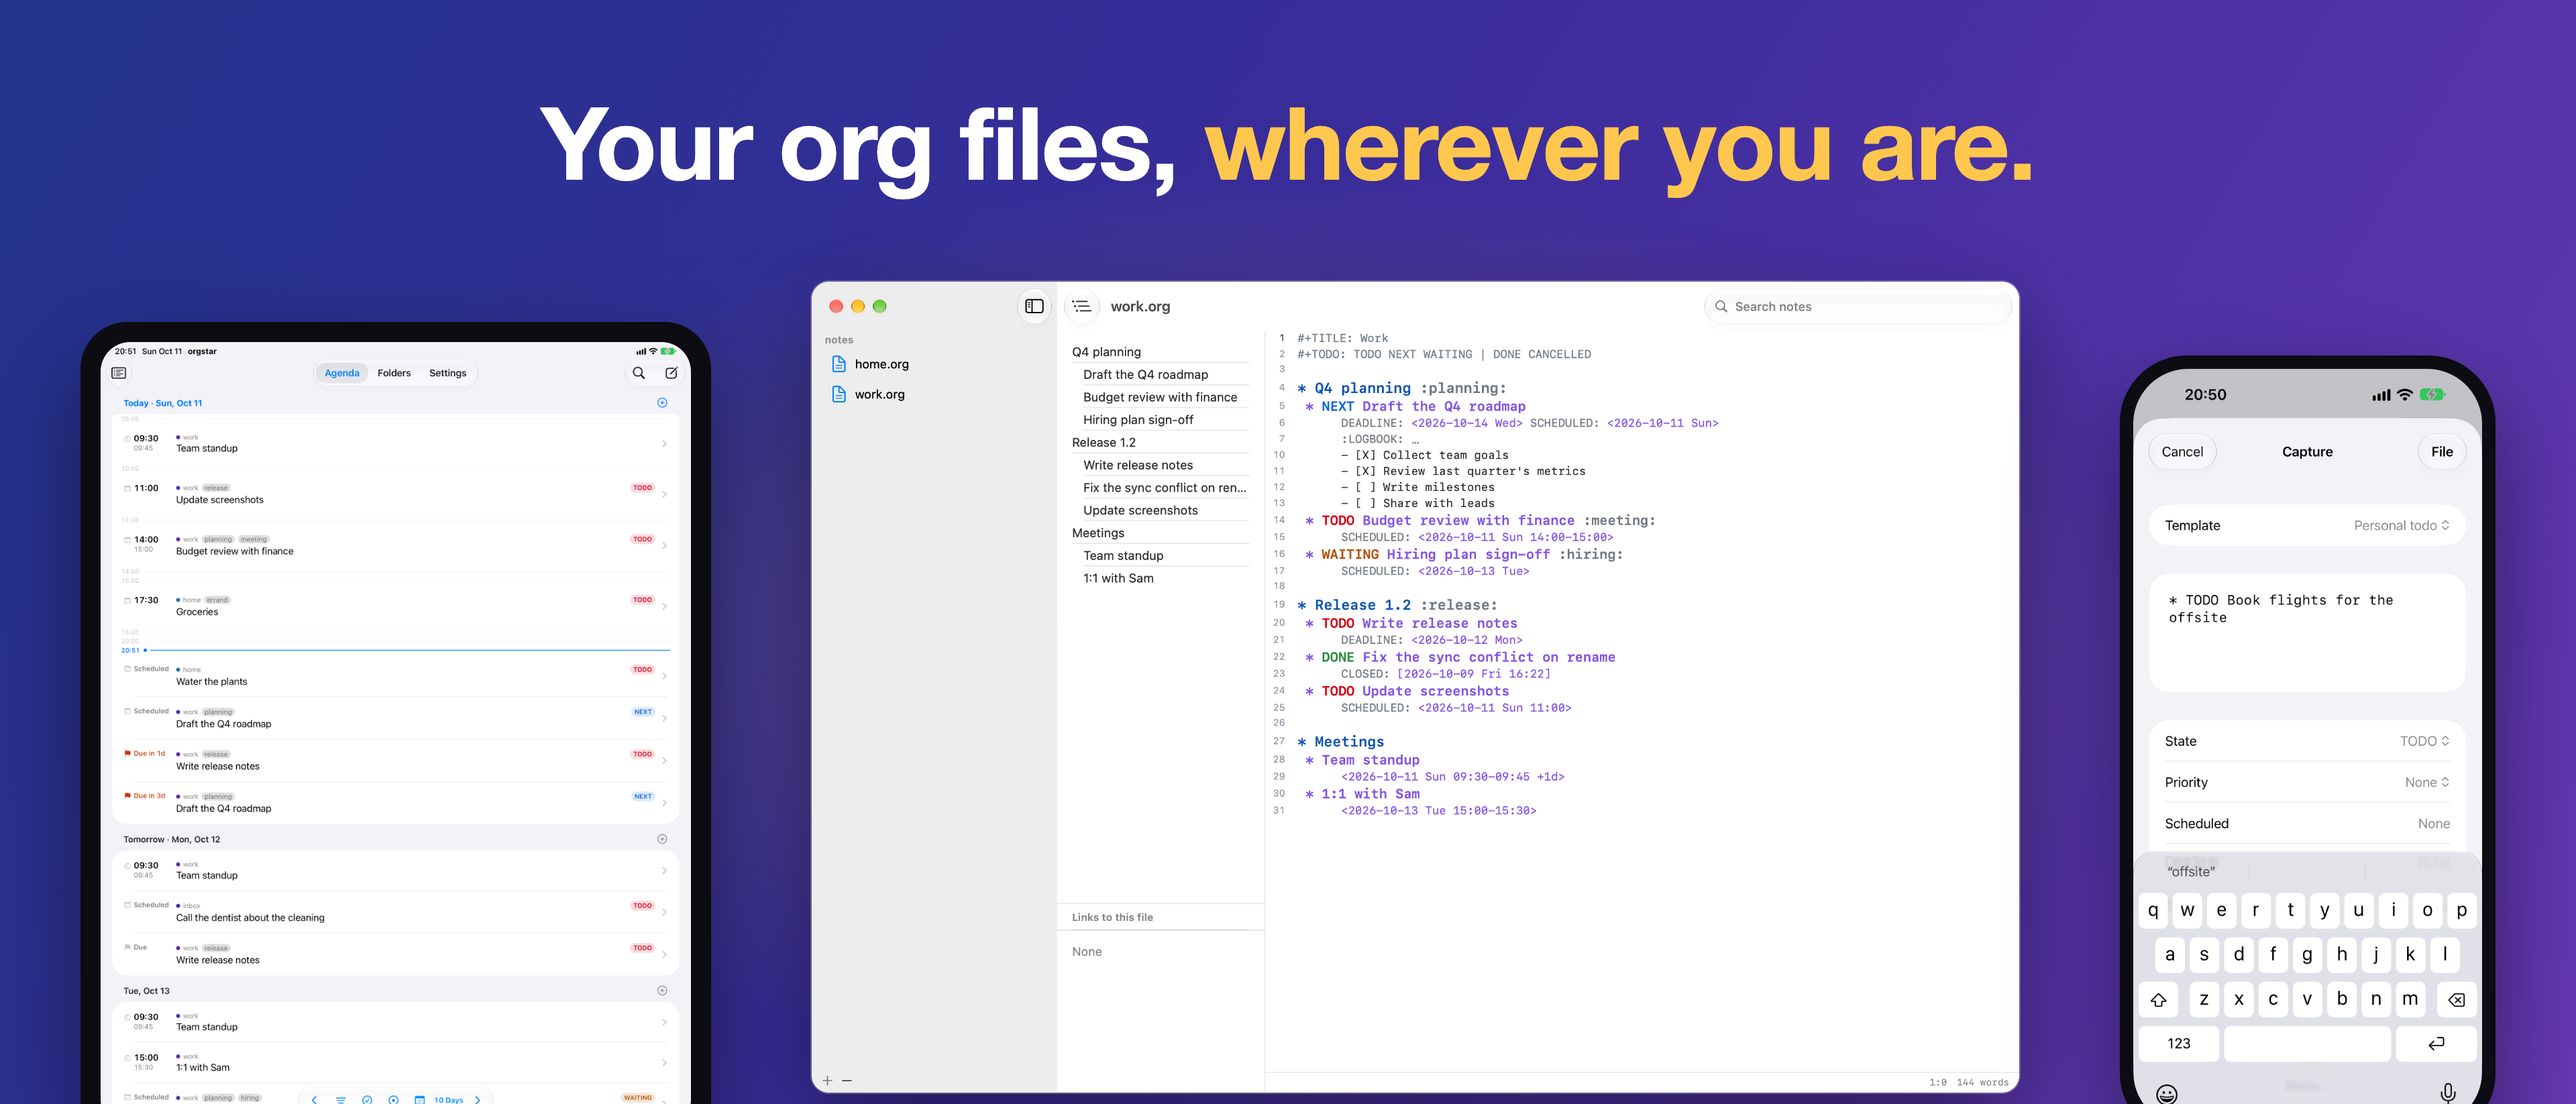
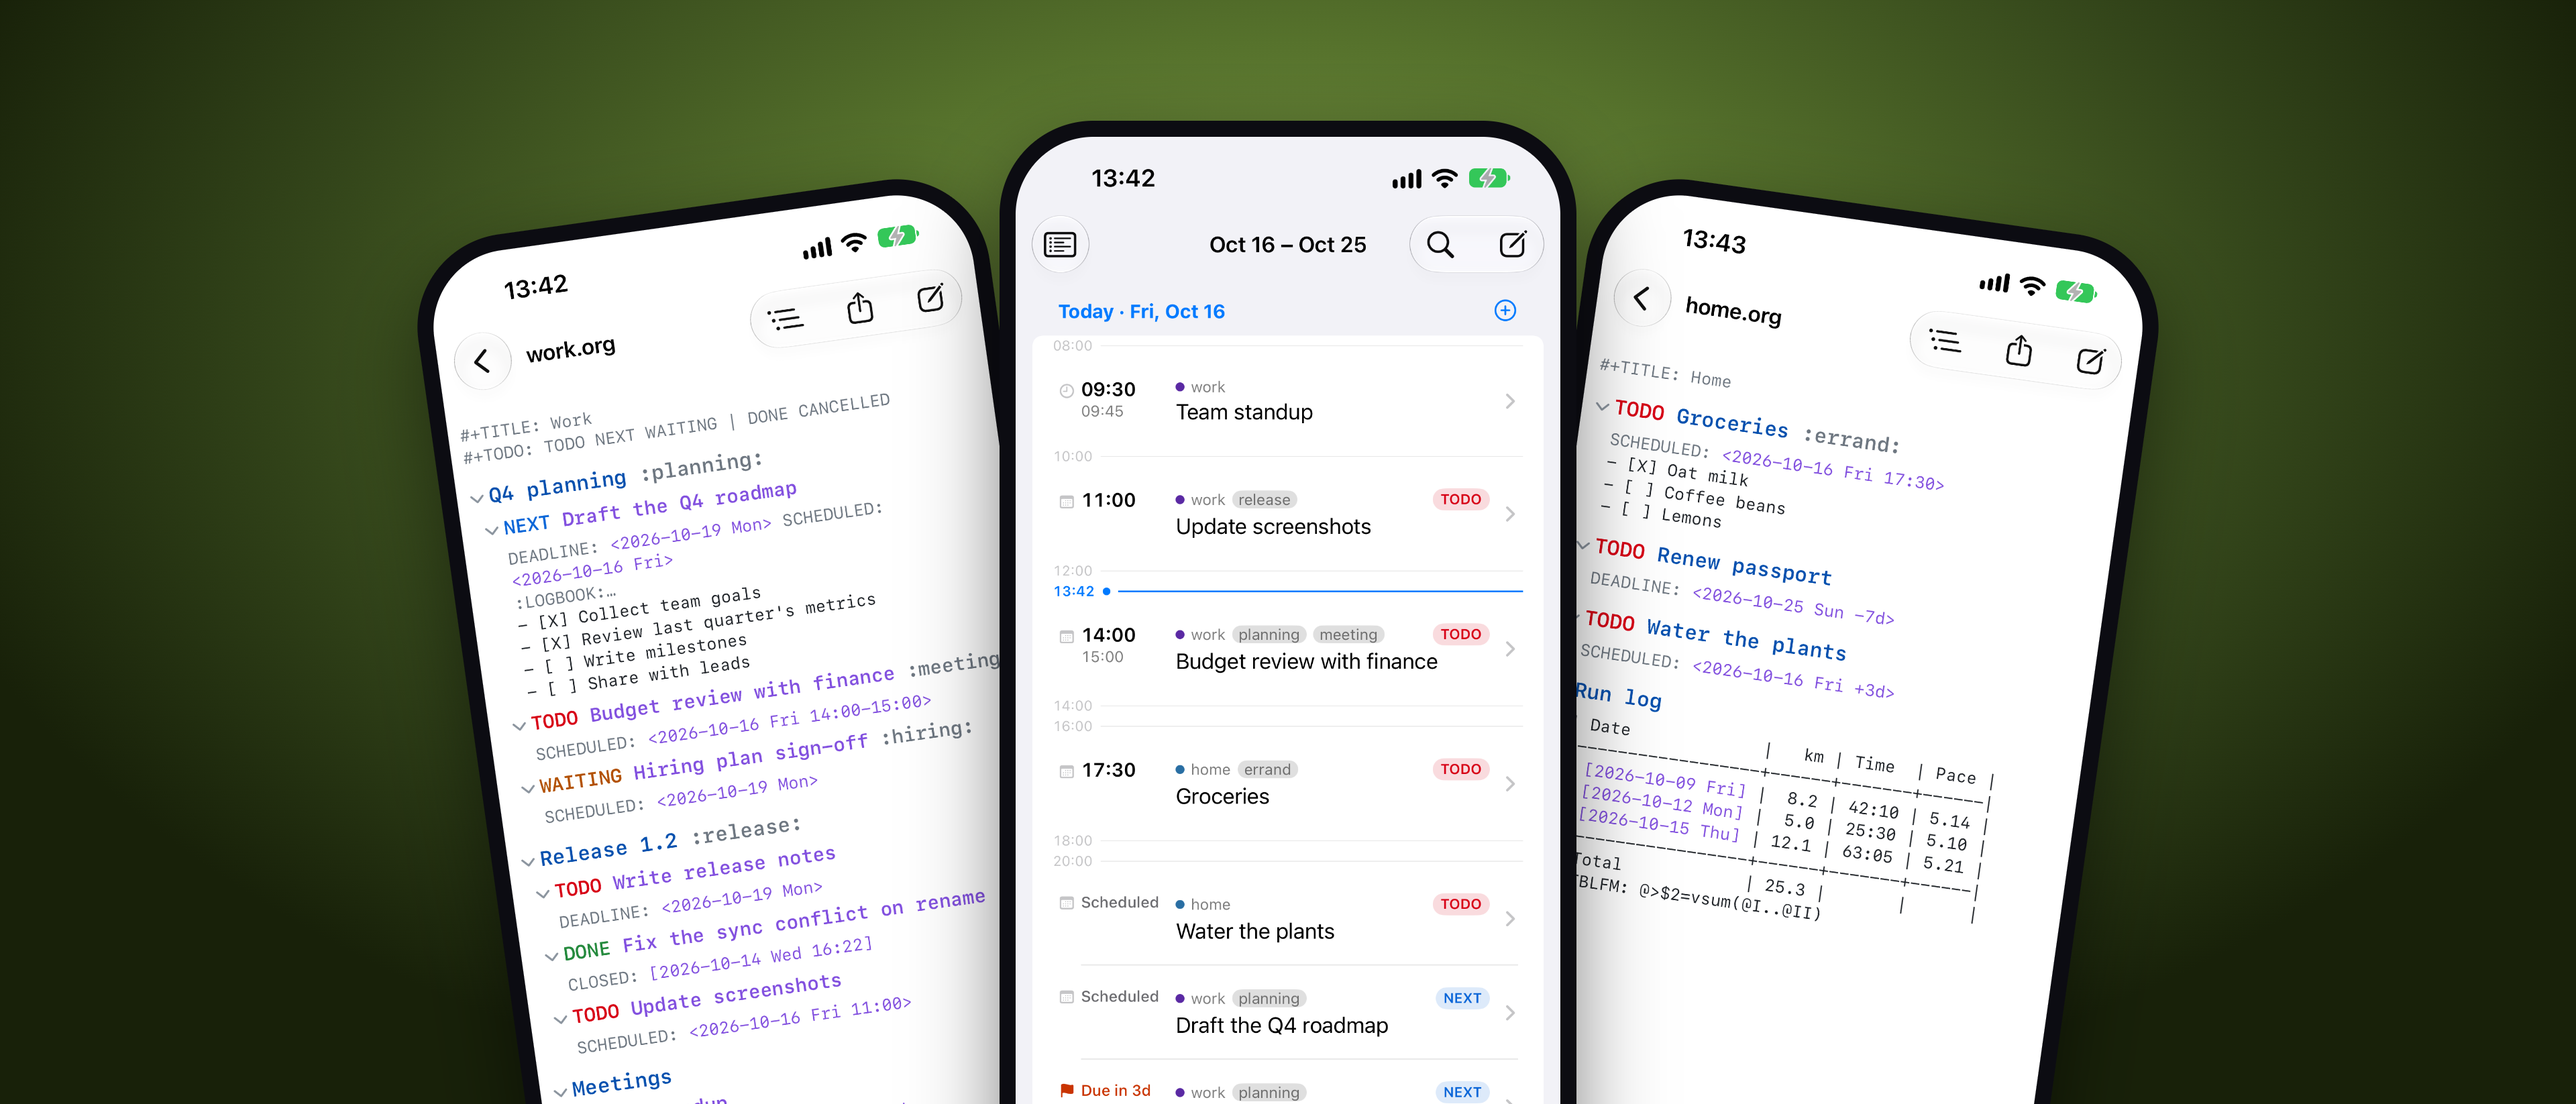
App Store header after the krz.sh hero
Three iPhones fanned over the app's green (#5b7a2e), as on krz.sh/apps/orgstar:
the reader, the agenda and a table, from the 0.7.0 screenshots. The Mac and iPad
shots and the headline are gone.

diff --git a/ios/AppStore/header.html b/ios/AppStore/header.html
@@ -1,6 +1,7 @@
 <!doctype html>
-<!-- Product page header. header.html renders the 21:9 header (3840x1646), header.html#wide the
-     16:9 one (5244x2950), with headless Chromium, then the alpha channel is removed:
+<!-- Product page header, after the krz.sh hero: three iPhones fanned over the app's green.
+     header.html renders the 21:9 header (3840x1646), header.html#wide the 16:9 one (5244x2950),
+     with headless Chromium, then the alpha channel is removed:
      Chromium --headless --hide-scrollbars --force-device-scale-factor=1 --window-size=3840,1646 --screenshot=header-21x9.png header.html
      Chromium --headless --hide-scrollbars --force-device-scale-factor=1 --window-size=5244,2950 --screenshot=header-16x9.png "file://$PWD/header.html#wide"
      magick header-21x9.png -alpha off PNG24:header-21x9.png -->
@@ -8,63 +9,34 @@
 <head>
 <meta charset="utf-8">
 <style>
-  :root { --u: 1px; --row-top: 420px; }
+  :root { --u: 1px; --top: 180px; }
   * { box-sizing: border-box; }
   html, body { margin: 0; width: 3840px; height: 1646px; overflow: hidden; }
   body {
-    background: linear-gradient(120deg, #21338c 0%, #3a2c9a 45%, #6638b3 100%);
-    font-family: -apple-system, "SF Pro Display", "Helvetica Neue", sans-serif;
-    color: #fff;
     position: relative;
-  }
-  .glow {
-    position: absolute; left: 50%; top: 58%; width: 2600px; height: 1400px;
-    transform: translate(-50%, -50%);
-    background: radial-gradient(closest-side, rgba(255, 199, 77, 0.22), rgba(255, 199, 77, 0));
-  }
-  h1 {
-    position: absolute; top: 120px; left: 0; right: 0; margin: 0;
-    text-align: center; font-size: 150px; font-weight: 700; letter-spacing: -2px;
-  }
-  h1 span { color: #ffc74d; }
-  /* One row, centered, one gap: the space between devices is equal by construction. */
-  .row {
-    position: absolute; top: var(--row-top); left: 0; right: 0;
-    display: flex; justify-content: center; align-items: flex-start; gap: calc(150 * var(--u));
-  }
-  .device { flex: none; box-shadow: 0 calc(60 * var(--u)) calc(140 * var(--u)) rgba(0, 0, 0, 0.45); }
-  .device img { display: block; width: 100%; height: 100%; object-fit: cover; object-position: top; }
-  .ipad {
-    width: calc(940 * var(--u)); height: calc(1233 * var(--u)); margin-top: calc(60 * var(--u));
-    padding: calc(30 * var(--u)); border-radius: calc(70 * var(--u)); background: #0c0c12;
-  }
-  .ipad img { border-radius: calc(44 * var(--u)); }
-  .mac {
-    width: calc(1800 * var(--u)); height: calc(1209 * var(--u));
-    border-radius: calc(26 * var(--u)); overflow: hidden; background: #fff;
-    outline: calc(2 * var(--u)) solid rgba(255, 255, 255, 0.25);
+    background:
+      radial-gradient(ellipse 55% 75% at 50% 30%, #7a9845 0%, #56722c 35%, #33451a 70%, #182109 100%);
   }
   .iphone {
-    width: calc(560 * var(--u)); height: calc(1170 * var(--u)); margin-top: calc(110 * var(--u));
-    padding: calc(20 * var(--u)); border-radius: calc(100 * var(--u)); background: #0c0c12;
+    position: absolute; left: 50%; top: var(--top);
+    width: calc(860 * var(--u)); height: calc(1868 * var(--u));
+    padding: calc(24 * var(--u)); border-radius: calc(140 * var(--u)); background: #0c0c12;
+    box-shadow: 0 calc(50 * var(--u)) calc(120 * var(--u)) rgba(0, 0, 0, 0.5);
   }
-  .iphone img { border-radius: calc(82 * var(--u)); }
+  .iphone img { display: block; width: 100%; height: 100%; object-fit: cover; object-position: top; border-radius: calc(116 * var(--u)); }
+  .center { transform: translateX(-50%); z-index: 2; }
+  .left { transform: translate(calc(-50% - 760 * var(--u)), calc(120 * var(--u))) rotate(-8deg); }
+  .right { transform: translate(calc(-50% + 760 * var(--u)), calc(120 * var(--u))) rotate(8deg); }
 
   /* 16:9, 5244x2950. */
-  html.wide { --u: 1.38px; --row-top: 760px; }
+  html.wide { --u: 1.6px; --top: 420px; }
   html.wide, .wide body { width: 5244px; height: 2950px; }
-  .wide .glow { width: 3800px; height: 2400px; }
-  .wide h1 { top: 260px; font-size: 220px; letter-spacing: -3px; }
 </style>
 <script>if (location.hash === "#wide") document.documentElement.className = "wide";</script>
 </head>
 <body>
-  <div class="glow"></div>
-  <h1>Your org files, <span>wherever you are.</span></h1>
-  <div class="row">
-    <div class="device ipad"><img src="screenshots/ipad/01-agenda.png"></div>
-    <div class="device mac"><img src="screenshots/mac/01-editor.png"></div>
-    <div class="device iphone"><img src="screenshots/iphone-6.9/05-capture.png"></div>
-  </div>
+  <div class="iphone left"><img src="screenshots/iphone-6.9/02-reader.png"></div>
+  <div class="iphone right"><img src="screenshots/iphone-6.9/04-tables.png"></div>
+  <div class="iphone center"><img src="screenshots/iphone-6.9/01-agenda.png"></div>
 </body>
 </html>
